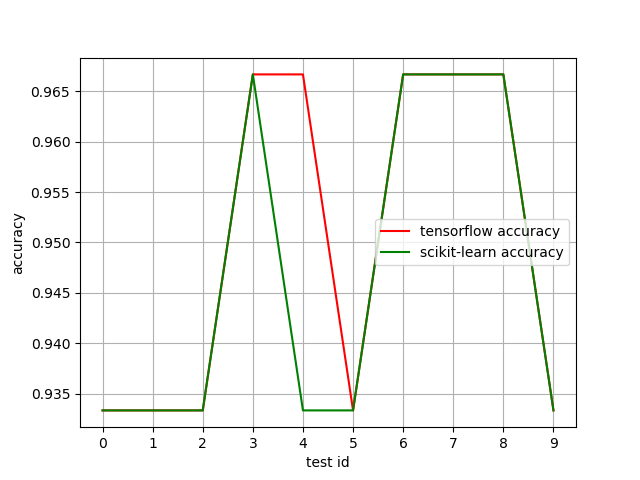
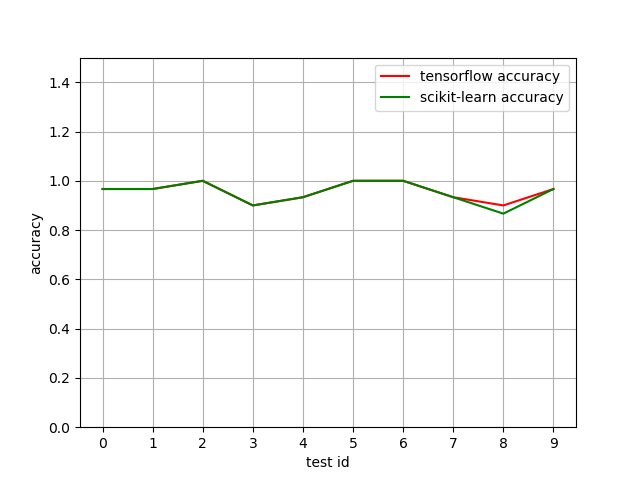
modify some part

diff --git a/Logistic/compare.py b/Logistic/compare.py
@@ -118,6 +118,8 @@ def main():
     plt.xticks(np.arange(min(times), max(times)+1, 1.0))
     plt.xlabel('test id')
     plt.ylabel('accuracy')
+    plt.ylim(ymin=0)
+    plt.ylim(ymax=1.5)
     plt.legend(['tensorflow accuracy', 'scikit-learn accuracy'])
     plt.grid(True)
     plt.savefig('comare'+str(counts)+'.png')
@@ -131,15 +133,20 @@ def main():
     plt.xticks(np.arange(min(times), max(times)+1, 1.0))
   #  plt.yticks(np.arange(0, 6000, 1))
     plt.xlabel('test id')
-    plt.ylabel('time')
+    plt.ylabel('time /ms')
     plt.legend(['tensorflow', 'scikit-learn'])
     plt.grid(True)
     plt.savefig('comare_time'+str(counts)+'.png')
     plt.show()
     times = np.array(times) + 1
     ax = plt.subplot(111)
-    ax.bar(times+0.25, tf_time, width=0.4, color='b', label='tensorflow',align='center')
-    ax.bar(times-0.25, sk_time, width=0.4,color='r', label='sklearn',align='center')
+    ax.bar(times+0.25, tf_time, width=0.4, color='b', label='tensorflow')
+    ax.bar(times-0.25, sk_time, width=0.4,color='r', label='sklearn')
+    plt.legend(loc='upper left')
+    plt.title('Time Comparison of Logistic Regression')
+    plt.xlabel('test id')
+    plt.ylabel('time /ms')
+    plt.savefig('comare_time_bar'+str(counts)+'.png')
     plt.show()
 
 def autolabel(rects):

diff --git a/Linear/compare.py b/Linear/compare.py
@@ -15,7 +15,7 @@ from util.data import load_data
 from matplotlib.colors import ListedColormap
 import matplotlib.pyplot as plt
 import time 
-
+import math
 
 
 
@@ -92,7 +92,7 @@ def main():
     times = []
     counts = 25
     for i in range(counts):
-         X_train, X_test,y_train, y_test = load_data('iris.data')
+         X_train, X_test,y_train, y_test = load_data('../iris.data')
          tf_mse,tf_runtime = tf_linear( X_train, X_test, y_train, y_test)
          sk_mse,sk_runtime = sk_linear( X_train, X_test, y_train, y_test)
          tf_MSE.append(tf_mse)
@@ -104,8 +104,12 @@ def main():
 
     #print('tesorflow better:'+str(tf_large)+' equal:'+ str(equal)+' sk better:'+str(tf_small))
  #   plt.gca().set_color_cycle(['red', 'green'])
-    plt.plot(times, tf_MSE)
-    plt.plot(times, sk_MSE)
+    tf_RMSE = [math.sqrt(n) for n in tf_MSE]
+    sk_RMSE = [math.sqrt(n) for n in sk_MSE]
+    plt.plot(times, tf_RMSE)
+    plt.plot(times, sk_RMSE)
+    print(tf_MSE)
+    print(sk_MSE)
     plt.xticks(np.arange(min(times), max(times)+1, 1.0))
     plt.xlabel('test id')
     plt.ylabel('mean square error')

diff --git a/Linear/util/data.py b/Linear/util/data.py
@@ -3,9 +3,12 @@ import pandas as pd
 from sklearn.feature_selection import SelectKBest
 from sklearn.feature_selection import chi2
 from sklearn.preprocessing import StandardScaler
+import os.path
 
 def load_data(filename):
-    with open(filename) as i:
+    my_path = os.path.abspath(os.path.dirname(__file__))
+    path = os.path.join(my_path, filename)
+    with open(path) as i:
         lines = i.readlines()
     X = []
     Y = []

diff --git a/Logistic/Logistic-regression-tf.py b/Logistic/Logistic-regression-tf.py
@@ -13,7 +13,7 @@ class Classifer:
 
 def main():
     X_train, X_test, y_plt_train, y_plt_test, y_train, y_test = load_data(
-        'iris.data')
+        '../iris.data')
 
     X = tf.placeholder(tf.float32, [None, 2])
     y = tf.placeholder(tf.float32, [None, 3])
